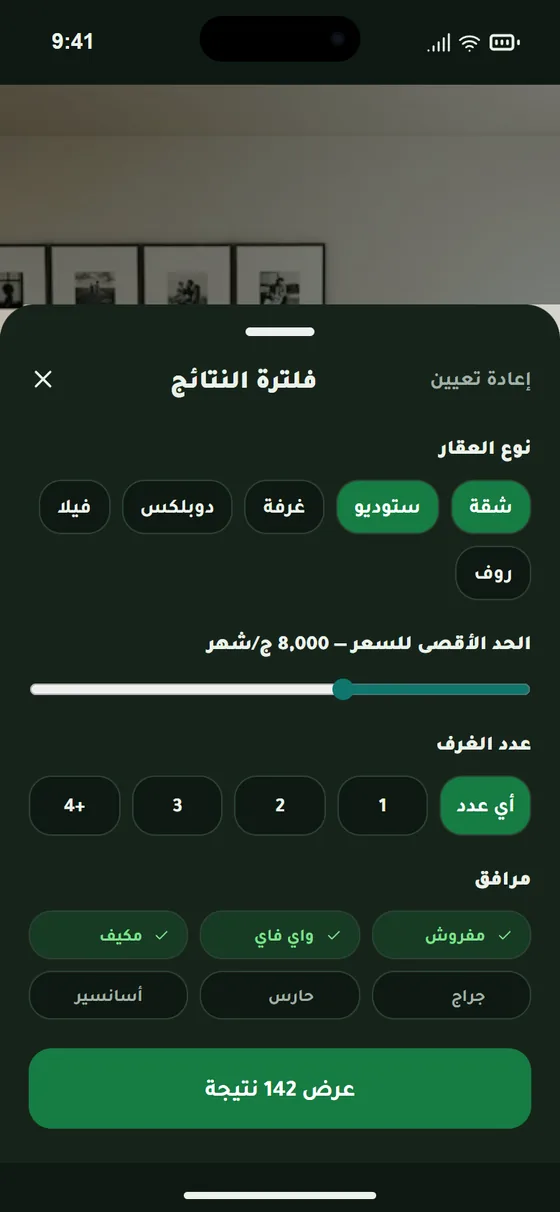
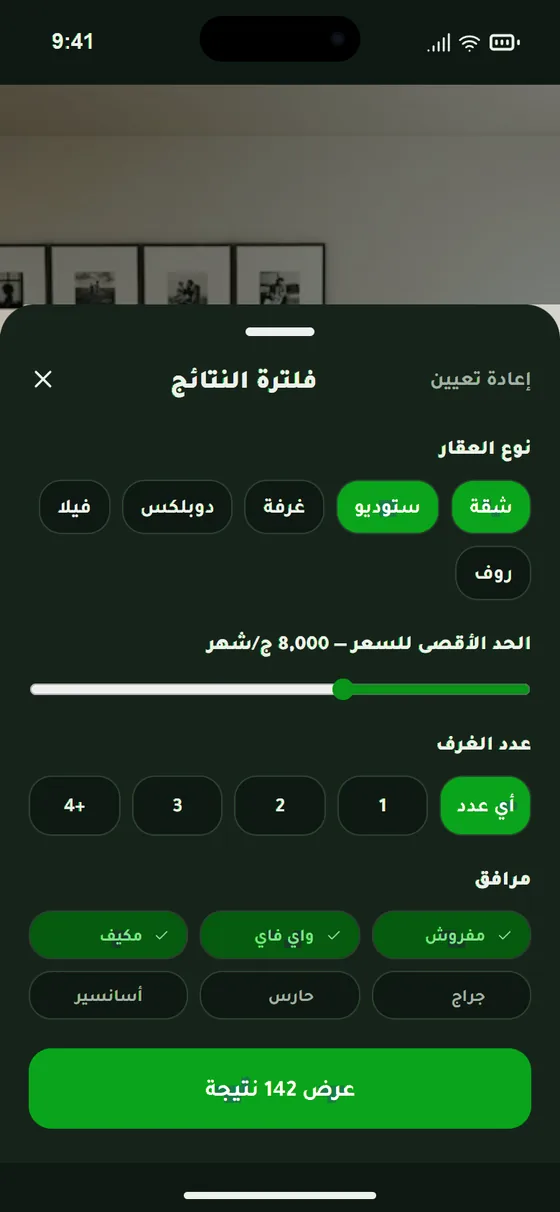
feat: enhance footer with social media links and update site details
- Added social media links (Instagram, TikTok) to the footer using the new SOCIAL_LINKS constant.
- Updated the README to reflect changes in the site.ts regarding social profiles.
- Introduced new SVG paths for the signature to separate the first letter from the rest of the word.
- Updated translations for social media labels in Arabic and English.
- Modified the SiteFooter component to render social media links dynamically.
- Updated various image assets for the landing page.

diff --git a/frontend/landing/src/assets/brand/signature.ts b/frontend/landing/src/assets/brand/signature.ts
@@ -5,3 +5,12 @@ export const SIGNATURE_VIEWBOX = "0 0 1455 811";
 
 export const SIGNATURE_PATH =
   "M690.9 796.5C706 791.9 718.7 787.7 719 787.3C720.3 785.9 701.8 730.5 694.6 713.7L692.9 709.9L698.6 707.4L704.2 704.9L708.4 708.3C753.1 744.6 812.9 754 862.9 732.6C897.3 717.8 935.2 682.8 961 641.8C964 637 966.8 633.1 967.2 633C967.6 633 967.9 653.8 967.9 679.2L968 725.5L1007.3 725.8L1046.7 726L1107.1 639.5C1140.2 592 1167.5 553.2 1167.6 553.3C1167.7 553.4 1168.1 555.9 1168.5 558.9C1168.9 561.9 1169.4 565.2 1169.6 566.4C1169.8 567.5 1170.2 570.2 1170.6 572.5C1170.9 574.7 1171.6 578.5 1172.2 581C1172.7 583.5 1173.4 586.5 1173.6 587.7C1176.4 602.2 1185.5 628.1 1194 645.5C1230.2 720 1296.9 752.3 1366.3 728.9C1397.7 718.3 1417.4 699.4 1435.1 662.5C1443.3 645.6 1446.3 634.7 1448.5 614.5C1451.2 590.3 1451.2 550.9 1448.5 531C1448.2 529.1 1447.8 525.9 1447.5 524C1447.2 522.1 1446.8 518.7 1446.5 516.6C1445.8 511.4 1445 506.8 1444.5 505C1444.3 504.2 1443.9 501.9 1443.6 500C1442.5 493.3 1441.9 490.4 1438 474.8C1430.5 444.7 1423.5 425.9 1381.8 322.2L1360.7 270L1327.4 270L1294 270L1295.4 273.3C1296.2 275 1298.9 281 1301.5 286.5C1331.1 348.9 1373.2 463 1378.5 495C1378.8 496.9 1379.5 500.1 1380 502C1380.5 503.9 1381.2 507.3 1381.5 509.5C1381.9 511.7 1382.3 514.2 1382.5 515C1382.9 516.3 1383.6 520.1 1384.5 526.5C1384.7 527.6 1385.1 531 1385.5 534C1385.9 537 1386.4 540.6 1386.6 542C1390.4 570.1 1389.1 606.1 1383.5 626C1376.4 651.1 1367 664.5 1350.6 672.5C1312.3 691.4 1272.2 666.3 1249.7 609.5C1246 600.2 1239.4 579.3 1238.5 573.8C1238.2 572.1 1237.8 570.4 1237.6 570.1C1237.4 569.8 1236.9 567.9 1236.6 566C1236.3 564.1 1235.8 561.4 1235.5 560C1235.2 558.6 1234.8 556.4 1234.5 555C1234.1 552.7 1233.8 550.9 1232.5 543C1231.8 538.9 1230.1 524.5 1229.4 517C1228.1 502.7 1227.9 498.1 1227.4 478.5L1226.9 457.5L1191.2 457.5L1155.6 457.5L1094.5 544.7C1061 592.7 1033.2 632 1032.8 632C1032.4 632 1032.1 578 1032.3 512L1032.5 392L997.2 392L962 392L962 409.8C961.9 430.4 961.5 438 959.5 456.9C958.6 465.5 956.2 480.7 954.5 489C954.2 490.4 953.7 492.9 953.5 494.5C945.3 541.1 911.9 606.9 878.9 641.4C843.2 678.8 808.5 687.9 770.1 669.9L761.6 665.9L767.2 660.2C792.7 633.9 809.5 601.2 813.7 569.8C814.6 562.9 814.7 534.7 813.7 529.2C807.7 492.7 789.7 463.8 758.7 440.8C750.1 434.4 729.9 422.1 723.4 419.3C720.3 418 719.9 417.6 721.5 417.3C757.2 410.7 792.4 403.2 807 399.1C810.6 398 819.6 395.5 827 393.5C999.7 346.1 1147.1 237.7 1226.1 100C1239.5 76.5 1261.6 29.2 1259.8 27.5C1258.3 26 1200.6 4 1199.9 4.7C1199.5 5.1 1196.4 11.9 1193.1 19.8C1146.6 128.8 1054.3 222.2 933.2 282.9C919.8 289.6 896 300.4 886.5 304C883.2 305.2 878 307.3 875 308.6C821.1 331.2 734 351.8 653 360.9C604.7 366.4 580.7 366.8 454.9 364.3L422.3 363.7L422.6 381.1C422.8 390.7 423.1 405.8 423.2 414.7L423.4 430.8L432.5 431.4C437.4 431.7 459.3 432.4 481 433C553.4 434.9 588.4 440.1 639 456.5C720.7 483 750.6 508.5 749.5 550.8C749.4 556.1 749 561.6 748.6 563C748.3 564.4 747.8 566.8 747.5 568.3C742.5 595.6 712.6 627.9 675.4 646C663.6 651.7 663.5 651.8 661.7 648.8C638.6 611.1 623.3 590.1 599.6 564.1C539.7 498.5 455.3 452.7 384.5 447.4C332.1 443.6 286.8 476.7 282.3 522C279.3 552.5 292 581.3 322 612.4C402.6 695.6 519.7 742 618.5 729.9C622.9 729.4 627.2 728.7 628 728.5C629 728.2 630.1 729.4 631.4 732.3C636.1 743.2 645.6 769.2 650.5 785C657.8 808.2 657.3 807.1 660.7 806C662.2 805.5 675.8 801.2 690.9 796.5ZM237.5 767C285.2 763.5 328.4 746.8 367.8 716.6C378.6 708.3 391.8 696.5 391 695.8C390.7 695.5 384 691 376 685.7C368 680.4 356.3 672 350 667.1C343.7 662.1 338.1 658 337.5 658C336.9 658 334.2 659.9 331.5 662.1C309.9 679.7 281.9 693.3 255.2 699.1C240 702.4 211.4 702.9 195.1 700.1C141.1 690.9 100.8 658.2 81.5 608C77.9 598.9 73.5 583 72.5 576.5C72.2 574.2 71.8 571.3 71.5 570C68.5 554.8 69 524.2 72.4 505.7C72.6 504.5 73.1 501.7 73.5 499.5C80.6 458.9 104 409.9 138.3 363.7C145.1 354.5 146.1 352.7 144.9 351.5C142.5 349.3 96 314 95.1 313.7C93.2 313.2 69.7 346.4 56.8 368C36 402.6 16.9 448.7 11.4 477.4C11.2 478.6 10.6 481.8 10 484.5C8.2 493 7.7 496.3 6.4 505C3.5 525.7 4 563 7.4 582.8C9.2 593 9.7 595.5 10.4 597.8C10.7 598.7 11.1 600.6 11.4 602C13.6 613.8 22.4 638 30.1 653C66.2 724.1 133.2 764.5 220 767.8C221.9 767.9 229.8 767.5 237.5 767ZM572.5 666.3C505.1 662.6 429.2 626.5 373.7 571.7C342.9 541.4 339.1 523.5 361.5 515.1C380.9 507.8 426.9 519.4 467.5 541.7C512.1 566.3 555 606.2 587 653.1C593.4 662.6 595 665.4 593.9 666.1C592.6 666.9 585.4 667 572.5 666.3ZM240.1 447C257.4 443.7 273.6 428.1 276.6 412C284.9 366.1 230.3 338.1 198.5 372.1C169.4 403.2 198.2 454.9 240.1 447ZM589.1 326C597.1 323.5 604.1 318.4 607.5 312.6C610 308.4 610.5 304.4 610.1 294.8C609.8 289.2 600 283.3 592.9 284.5C578.3 287 574.3 306.7 586.4 316.7L590.1 319.7L585.6 320.9C580.1 322.3 571 322.3 565.1 320.9C560.4 319.9 559.6 320.2 558.6 323.6C558 325.5 558.5 325.9 562.7 326.8C571.1 328.5 582.2 328.2 589.1 326ZM1211.6 324.6C1226 318.1 1233 303.8 1227.3 292.3C1222 281.4 1204.9 282.2 1199.5 293.6C1195.8 301.4 1198.6 313.2 1205.1 316.8C1209 319.1 1208.8 319.5 1203.5 321C1199.1 322.2 1187.4 321.9 1180.9 320.4C1178.6 319.9 1178.2 320.2 1177.6 322.5C1176.7 325.9 1176.7 325.9 1182.1 327C1190.9 328.8 1204.9 327.7 1211.6 324.6ZM204 325C220.3 316.7 212.4 292 193.8 293.2C171.6 294.7 172.5 326.9 194.8 327C198.1 327 201.5 326.3 204 325ZM189 320.7C185.4 318.9 182.2 313.6 182.4 309.8C183.3 296.8 201.6 293.7 206.6 305.7C211 316.1 199.4 326 189 320.7ZM590.7 312C584.1 306.2 583.4 298.9 589 293.5C597.8 285.1 608.1 295.3 602.8 307.1C599 315.7 596.2 316.9 590.7 312ZM1210.1 312.8C1201.5 307.2 1201.7 295.1 1210.6 291.4C1221.3 286.9 1227.5 300.7 1219.3 310.8C1215.6 315.3 1214.4 315.6 1210.1 312.8Z";
+
+// The same word split in two, so a layout can set the first letter (س, with
+// its damma and the madda that sweeps down to meet the ك) apart from the rest (كون). Same viewBox, so each part stays
+// where it sits in the whole word.
+export const SIGNATURE_SEEN_PATH =
+  "M828.5 742.5C852.8 738.6 875.2 728.7 898 712C917.2 697.9 945.6 666.2 961 641.8C964 637 966.8 633.1 967.2 633C967.6 633 967.9 653.8 967.9 679.2L968 725.5L1007.3 725.8L1046.7 726L1107.1 639.5C1140.2 592 1167.5 553.2 1167.6 553.3C1167.7 553.4 1168.1 555.9 1168.5 558.9C1168.9 561.9 1169.4 565.2 1169.6 566.4C1169.8 567.5 1170.2 570.2 1170.6 572.5C1170.9 574.7 1171.6 578.5 1172.2 581C1172.7 583.5 1173.4 586.5 1173.6 587.7C1176.4 602.2 1185.5 628.1 1194 645.5C1230.2 720 1296.9 752.3 1366.3 728.9C1397.7 718.3 1417.4 699.4 1435.1 662.5C1443.3 645.6 1446.3 634.7 1448.5 614.5C1451.2 590.3 1451.2 550.9 1448.5 531C1448.2 529.1 1447.8 525.9 1447.5 524C1447.2 522.1 1446.8 518.7 1446.5 516.6C1445.8 511.4 1445 506.8 1444.5 505C1444.3 504.2 1443.9 501.9 1443.6 500C1442.5 493.3 1441.9 490.4 1438 474.8C1430.5 444.7 1423.5 425.9 1381.8 322.3L1360.7 270L1327.4 270L1294 270L1295.4 273.2C1296.2 275 1298.9 281 1301.5 286.5C1331.1 348.9 1373.2 463 1378.5 495C1378.8 496.9 1379.5 500.1 1380 502C1380.5 503.9 1381.2 507.3 1381.5 509.5C1381.9 511.7 1382.3 514.2 1382.5 515C1382.9 516.3 1383.6 520.1 1384.5 526.5C1384.7 527.6 1385.1 531 1385.5 534C1385.9 537 1386.4 540.6 1386.6 542C1390.4 570.1 1389.1 606.1 1383.5 626C1376.4 651.1 1367 664.5 1350.6 672.5C1312.3 691.4 1272.2 666.3 1249.7 609.5C1246 600.2 1239.4 579.3 1238.5 573.8C1238.2 572.1 1237.8 570.4 1237.6 570.1C1237.4 569.8 1236.9 567.9 1236.6 566C1236.3 564.1 1235.8 561.4 1235.5 560C1235.2 558.6 1234.8 556.4 1234.5 555C1234.1 552.7 1233.8 550.9 1232.5 543C1231.8 538.9 1230.1 524.5 1229.4 517C1228.1 502.7 1227.9 498.1 1227.4 478.5L1226.9 457.5L1191.2 457.5L1155.6 457.5L1094.5 544.7C1061 592.7 1033.2 632 1032.8 632C1032.4 632 1032.1 578 1032.3 512L1032.5 392L997.2 392L962 392L962 409.8C961.9 432.3 960.9 448.1 958.5 465.4C957.3 473.3 955.6 483.9 954.5 489C954.2 490.4 953.7 492.9 953.5 494.5C945.3 541.1 911.9 606.9 878.9 641.4C843.9 678.1 809.4 687.6 772.2 670.9L765.3 667.9L737.2 688.1C721.7 699.2 709.3 708.7 709.6 709.2C709.9 709.7 714.2 712.8 719.1 716.1C752.6 738.6 792.8 748.3 828.5 742.5ZM1211.6 324.6C1226 318.1 1233 303.8 1227.3 292.3C1222 281.4 1204.9 282.2 1199.5 293.6C1195.8 301.4 1198.6 313.2 1205.1 316.8C1209 319.1 1208.8 319.5 1203.5 321C1199.1 322.2 1187.4 321.9 1180.9 320.4C1178.6 319.9 1178.2 320.2 1177.6 322.5C1176.7 325.9 1176.7 325.9 1182.1 327C1190.9 328.8 1204.9 327.7 1211.6 324.6ZM1210.1 312.8C1201.5 307.2 1201.7 295.1 1210.6 291.4C1221.3 286.9 1227.5 300.7 1219.3 310.8C1215.6 315.3 1214.4 315.6 1210.1 312.8Z";
+
+export const SIGNATURE_REST_PATH =
+  "M690.9 796.5C706 791.9 718.7 787.7 719 787.3C720.3 785.9 701.8 730.5 694.6 713.7L692.9 709.9L698.6 707.4C703.9 705.1 704.4 705 706.1 706.6C708.6 708.8 707.7 709.4 736.1 688.9C766.7 667 765.6 667.9 763.4 666.7C762 665.9 762.6 664.9 767.3 660.1C792.7 633.9 809.5 601.2 813.7 569.8C814.6 562.9 814.7 534.7 813.7 529.2C807.7 492.7 789.7 463.8 758.7 440.8C750.1 434.4 729.9 422.1 723.4 419.3C720.3 418 719.9 417.6 721.5 417.3C757.2 410.7 792.4 403.2 807 399.1C810.6 398 819.6 395.5 827 393.5C999.7 346.1 1147.1 237.7 1226.1 100C1239.5 76.5 1261.6 29.2 1259.8 27.5C1258.3 26 1200.6 4 1199.9 4.7C1199.5 5.1 1196.4 11.9 1193.1 19.8C1146.6 128.8 1054.3 222.2 933.2 282.9C919.8 289.6 896 300.4 886.5 304C883.2 305.2 878 307.3 875 308.6C821.1 331.2 734 351.8 653 360.9C604.7 366.4 580.7 366.8 454.9 364.3L422.3 363.7L422.6 381.1C422.8 390.7 423.1 405.8 423.2 414.7L423.4 430.8L432.5 431.4C437.4 431.7 459.3 432.4 481 433C553.4 434.9 588.4 440.1 639 456.5C720.7 483 750.6 508.5 749.5 550.8C749.4 556.1 749 561.6 748.6 563C748.3 564.4 747.8 566.8 747.5 568.3C742.5 595.6 712.6 627.9 675.4 646C663.6 651.7 663.5 651.8 661.7 648.8C638.6 611.1 623.3 590.1 599.6 564.1C539.7 498.5 455.3 452.7 384.5 447.4C332.1 443.6 286.8 476.7 282.3 522C279.3 552.5 292 581.3 322 612.4C402.6 695.6 519.7 742 618.5 729.9C622.9 729.4 627.2 728.7 628 728.5C629 728.2 630.1 729.4 631.4 732.3C636.1 743.2 645.6 769.2 650.5 785C657.8 808.2 657.3 807.1 660.7 806C662.2 805.5 675.8 801.2 690.9 796.5ZM237.5 767C285.2 763.5 328.4 746.8 367.8 716.6C378.6 708.3 391.8 696.5 391 695.8C390.7 695.5 384 691 376 685.7C368 680.4 356.3 672 350 667.1C343.7 662.1 338.1 658 337.5 658C336.9 658 334.2 659.9 331.5 662.1C309.9 679.7 281.9 693.3 255.2 699.1C240 702.4 211.4 702.9 195.1 700.1C141.1 690.9 100.8 658.2 81.5 608C77.9 598.9 73.5 583 72.5 576.5C72.2 574.2 71.8 571.3 71.5 570C68.5 554.8 69 524.2 72.4 505.7C72.6 504.5 73.1 501.7 73.5 499.5C80.6 458.9 104 409.9 138.3 363.7C145.1 354.5 146.1 352.7 144.9 351.5C142.5 349.3 96 314 95.1 313.7C93.2 313.2 69.7 346.4 56.8 368C36 402.6 16.9 448.7 11.4 477.4C11.2 478.6 10.6 481.8 10 484.5C8.2 493 7.7 496.3 6.4 505C3.5 525.7 4 563 7.4 582.8C9.2 593 9.7 595.5 10.4 597.8C10.7 598.7 11.1 600.6 11.4 602C13.6 613.8 22.4 638 30.1 653C66.2 724.1 133.2 764.5 220 767.8C221.9 767.9 229.8 767.5 237.5 767ZM572.5 666.3C505.1 662.6 429.2 626.5 373.7 571.7C342.9 541.4 339.1 523.5 361.5 515.1C380.9 507.8 426.9 519.4 467.5 541.7C512.1 566.3 555 606.2 587 653.1C593.4 662.6 595 665.4 593.9 666.1C592.6 666.9 585.4 667 572.5 666.3ZM240.1 447C257.4 443.7 273.6 428.1 276.6 412C284.9 366.1 230.3 338.1 198.5 372.1C169.4 403.2 198.2 454.9 240.1 447ZM589.1 326C597.1 323.5 604.1 318.4 607.5 312.6C610 308.4 610.5 304.4 610.1 294.8C609.8 289.2 600 283.3 592.9 284.5C578.3 287 574.3 306.7 586.4 316.7L590.1 319.7L585.6 320.9C580.1 322.3 571 322.3 565.1 320.9C560.4 319.9 559.6 320.2 558.6 323.6C558 325.5 558.5 325.9 562.7 326.8C571.1 328.5 582.2 328.2 589.1 326ZM204 325C220.3 316.7 212.4 292 193.8 293.2C171.6 294.7 172.5 326.9 194.8 327C198.1 327 201.5 326.3 204 325ZM189 320.7C185.4 318.9 182.2 313.6 182.4 309.8C183.3 296.8 201.6 293.7 206.6 305.7C211 316.1 199.4 326 189 320.7ZM590.7 312C584.1 306.2 583.4 298.9 589 293.5C597.8 285.1 608.1 295.3 602.8 307.1C599 315.7 596.2 316.9 590.7 312Z";

diff --git a/frontend/landing/src/components/ui/Decor.tsx b/frontend/landing/src/components/ui/Decor.tsx
@@ -1,11 +1,22 @@
 import clsx from "clsx";
-import { SIGNATURE_PATH, SIGNATURE_VIEWBOX } from "@/assets/brand/signature";
+import { SIGNATURE_PATH, SIGNATURE_REST_PATH, SIGNATURE_SEEN_PATH, SIGNATURE_VIEWBOX } from "@/assets/brand/signature";
+
+const PATHS = { word: SIGNATURE_PATH, seen: SIGNATURE_SEEN_PATH, rest: SIGNATURE_REST_PATH };
 
 // The logo's "سكون" calligraphy as a thin outlined engraving, used as a large
 // background signature. Size and colour come from `className` (text-*); set
 // `--sig-fill` (0-1) to tint the inside of the strokes as well. `draw` lets CSS
-// draw the outline in (see .signature-draw in globals.css).
-export function SignatureMark({ className, draw = false }: { className?: string; draw?: boolean }) {
+// draw the outline in (see .signature-draw in globals.css). `part` draws only
+// the first letter (seen) or the rest of the word, in its place in the word.
+export function SignatureMark({
+  className,
+  draw = false,
+  part = "word",
+}: {
+  className?: string;
+  draw?: boolean;
+  part?: keyof typeof PATHS;
+}) {
   return (
     <svg
       aria-hidden
@@ -13,7 +24,7 @@ export function SignatureMark({ className, draw = false }: { className?: string;
       className={clsx("pointer-events-none absolute select-none", className)}
     >
       <path
-        d={SIGNATURE_PATH}
+        d={PATHS[part]}
         pathLength={draw ? 1 : undefined}
         className={clsx(draw && "signature-draw")}
         fill="currentColor"
@@ -31,8 +42,9 @@ export function SignatureMark({ className, draw = false }: { className?: string;
 const edgeSignature =
   "w-[64rem] text-brand-deep/25 [--sig-fill:0.18] max-lg:hidden dark:text-brand/30 dark:[--sig-fill:0]";
 
-// The signature engraved into both edges of a section: the word's end on the
-// right, its start on the left, each fading out before it reaches the content.
+// The signature split across both edges of a section: its first letter (س)
+// alone on the right, the rest of the word (كون) on the left, each fading out
+// before it reaches the content.
 // Only from lg up: below that sections stack and the text has no free side.
 // `className` sets the vertical position (e.g. top-4); the parent must be
 // positioned and clip overflow. With `draw`, a [data-animate] parent makes it
@@ -42,11 +54,13 @@ export function EdgeSignature({ className, draw = false }: { className?: string;
     <>
       <SignatureMark
         draw={draw}
-        className={clsx(edgeSignature, "-right-72 [mask-image:linear-gradient(to_left,black_40%,transparent_72%)]", className)}
+        part="seen"
+        className={clsx(edgeSignature, "right-0 [mask-image:linear-gradient(to_left,black_26%,rgb(0_0_0/0.35)_46%)]", className)}
       />
       <SignatureMark
         draw={draw}
-        className={clsx(edgeSignature, "-left-10 [mask-image:linear-gradient(to_right,black_30%,transparent_55%)]", className)}
+        part="rest"
+        className={clsx(edgeSignature, "-left-10 [mask-image:linear-gradient(to_right,black_45%,transparent_68%)]", className)}
       />
     </>
   );

diff --git a/frontend/landing/src/components/layout/SiteFooter.tsx b/frontend/landing/src/components/layout/SiteFooter.tsx
@@ -1,5 +1,6 @@
 import type { Dictionary } from "@/i18n/dictionaries";
 import { SECTION_IDS } from "@/lib/sections";
+import { SOCIAL_LINKS } from "@/lib/site";
 import { Container } from "@/components/ui/Container";
 import { Logo } from "@/components/ui/Logo";
 
@@ -41,6 +42,43 @@ export function SiteFooter({ dict }: { dict: Dictionary }) {
             </ul>
           </nav>
         </div>
+
+        <nav aria-label={dict.footer.socialLabel}>
+          <ul className="flex flex-wrap items-center justify-center gap-x-6 gap-y-2 text-sm text-fg/70 sm:justify-start">
+            {SOCIAL_LINKS.map((link) => (
+              <li key={link.href}>
+                <a
+                  href={link.href}
+                  target="_blank"
+                  rel="noopener noreferrer"
+                  className="inline-flex min-h-11 items-center gap-2 transition-colors hover:text-fg focus-visible:outline-2 focus-visible:outline-offset-4 focus-visible:outline-fg"
+                >
+                  <svg
+                    viewBox="0 0 24 24"
+                    fill="none"
+                    stroke="currentColor"
+                    strokeWidth="1.75"
+                    strokeLinecap="round"
+                    strokeLinejoin="round"
+                    className="size-5 shrink-0"
+                    aria-hidden="true"
+                  >
+                    {link.label === "Instagram" ? (
+                      <>
+                        <rect x="3" y="3" width="18" height="18" rx="5" />
+                        <circle cx="12" cy="12" r="4" />
+                        <circle cx="17.5" cy="6.5" r="0.5" />
+                      </>
+                    ) : (
+                      <path d="M14 3h3a5 5 0 0 0 4 4v3a8 8 0 0 1-4-1v7a6 6 0 1 1-6-6v3a3 3 0 1 0 3 3V3Z" />
+                    )}
+                  </svg>
+                  {link.label}
+                </a>
+              </li>
+            ))}
+          </ul>
+        </nav>
 
         <div className="flex flex-col items-center gap-4 border-t border-line pt-6 text-center sm:flex-row sm:justify-between sm:text-start">
           <nav aria-label={dict.footer.linksLabel}>

diff --git a/frontend/landing/src/lib/site.ts b/frontend/landing/src/lib/site.ts
@@ -14,9 +14,13 @@ export const THEME_COLOR = "#f6f2e9";
 
 export const absoluteUrl = (path = "/") => new URL(path, SITE_URL).toString();
 
-// TODO: add the official social profile URLs (Instagram, Facebook, X, LinkedIn, ...).
-// They're published as `sameAs` in the Organization schema once this list is non-empty.
-export const SOCIAL_PROFILES: string[] = [];
+// Shared by the footer and Organization structured data.
+export const SOCIAL_LINKS = [
+  { label: "Instagram", href: "https://www.instagram.com/suk_oon272/" },
+  { label: "TikTok", href: "https://www.tiktok.com/@sukoon5026" },
+];
+
+export const SOCIAL_PROFILES: string[] = SOCIAL_LINKS.map((link) => link.href);
 
 // TODO: fill in the registered business details. The LocalBusiness schema stays off
 // until name, telephone and the street address + city are all set, so placeholder

diff --git a/frontend/landing/src/i18n/dictionaries.ts b/frontend/landing/src/i18n/dictionaries.ts
@@ -152,6 +152,7 @@ const ar = {
     terms: "الشروط",
     contact: "تواصل معنا",
     linksLabel: "روابط",
+    socialLabel: "تابعنا على مواقع التواصل الاجتماعي",
     copyright: "© 2026 سكون. جميع الحقوق محفوظة.",
   },
   notFound: {
@@ -322,6 +323,7 @@ const en: Dictionary = {
     terms: "Terms",
     contact: "Contact us",
     linksLabel: "Links",
+    socialLabel: "Follow us on social media",
     copyright: "© 2026 Sukoon. All rights reserved.",
   },
   notFound: {

diff --git a/WORKLOG.md b/WORKLOG.md
@@ -626,3 +626,43 @@
 - **Why:** The user wanted to see the section without the box.
 - **Details:** Dropped `overflow-hidden rounded-[2rem] border border-line bg-sand` from the slide's `<figure>`; the soft radial glow and the caption stay. Nothing clips the card stamp any more, so it was narrowed from `w-[116%]` (with `-inset-x-[8%]`) to the figure's own width. That keeps it out of the text column, and the whole word now shows behind the phone. Checked light and dark screenshots at 1440px. Typecheck and ESLint pass.
 - **Files:** `frontend/landing/src/components/sections/ProductFeatures.tsx`
+
+### 10 UI proposals for the mobile app home screen
+- **What:** Made 10 different tenant home screen designs as phone mockups (390×844, Arabic RTL, Tajawal) on a design canvas: https://claude.ai/artifact/U8UUhGprTjP9wFP5AqNvtG
+- **Why:** The user doesn't like the current app UI and wants new directions that use the landing page colors.
+- **Details:** All 10 use the `LandingColors` palette from `mobile/apps/landing_page/lib/landing/theme/landing_theme.dart` (teal `#0C6254`, tealDark `#084B40`, tealLight `#EDFDF3`, navy `#152E29`, gold `#D6A84F`, background `#FAFBF8`, border `#E3EBE5`). Directions: Calm Teal, Gold Night (dark), Mint Minimal, Map First, Bento Grid, Editorial (Amiri serif), Floating Pill nav, Swipe Discover, Tenant Hub (journey dashboard), Curved Hero. Photos are tinted placeholder blocks and prices are `[السعر]` placeholders. No app code was changed.
+- **Files:** none in the repo (design canvas only)
+
+### Hero engraving split: س on the right, كون on the left
+- **What:** The hero engraving now shows only the first letter, the س with its damma, on the right edge, and the rest of the word (كون) on the left.
+- **Why:** The user's idea, to set the first letter apart from the rest of the word.
+- **Details:**
+  - The letters are joined in the drawing (the ك's tail runs into the س), so I cut the traced bitmap rather than the vector. The cut is x ≥ 966, below the ك's swash (y ≥ 370), extended above that line past the swash's tip (x ≥ 1270) and for the damma box. Each part is traced separately into `SIGNATURE_SEEN_PATH` / `SIGNATURE_REST_PATH` in `signature.ts`. They share the full word's viewBox, so each part keeps its place in the word.
+  - `SignatureMark` takes a new `part` prop (`word` | `seen` | `rest`). `EdgeSignature` uses `seen` at `right-0`, fading out by about 32% of its width, and `rest` at `-left-10`. The full-word path is unchanged, so `WideSignature` and the card stamp have no seam.
+  - Earlier messages wrongly called the right-hand tall strokes ل/ك; they are the س. I corrected this with the user.
+  - The user restored the hero arch themselves after the previous change, and it stays.
+- **Verification:** Checked screenshots at 1440px (light and dark) and 1920px (light). Typecheck and ESLint pass.
+- **Files:** `frontend/landing/src/assets/brand/signature.ts`, `frontend/landing/src/components/ui/Decor.tsx`
+
+### Hero س now includes its madda
+- **What:** The س on the right of the hero now carries its madda: the stroke that rises from the ك's foot up the س's first bar.
+- **Why:** The user asked to add the س's madda to the right-hand part.
+- **Details:**
+  - The madda touches the ك only at its foot. A rectangle cut sliced it in half, so instead I cut a short line across that joint, from (697,712) to (772,658) in bitmap coordinates. Then I flood-filled from a point inside the tail, which gave the region x 709–965, y 392–743, and moved it into the س part.
+  - Retraced `SIGNATURE_SEEN_PATH` / `SIGNATURE_REST_PATH`; the full-word path is unchanged.
+  - The س is wider now, so its mask in `EdgeSignature` moved from `black 18% → 25% at 32%` to `black 26% → 35% at 46%`. That way the madda stays visible instead of fading out.
+- **Verification:** Checked screenshots at 1440px and 1920px (light). On 1440px the madda runs faintly behind the end of the hero paragraph. Typecheck and ESLint pass.
+- **Files:** `frontend/landing/src/assets/brand/signature.ts`, `frontend/landing/src/components/ui/Decor.tsx`
+
+### Recoloured the carousel app screenshots to the site's green
+- **What:** The 16 app screenshots in the "Inside Sukoon" carousel now use the landing page's green instead of the app's teal / blue-green.
+- **Why:** The user wanted the greens in the mocked app to match the site.
+- **Details:**
+  - Started from the original PNGs, taken from git before `383f9fb` (where they were removed), so the WebP is only compressed once.
+  - The light screenshots used teal `#087068` (hue 175°) with a light teal chip background `#e0f0f0`; the dark ones used `#107840` (hue 148°).
+  - The recolour sets the hue to the site's 127° (`#04a417` / `#0a5c18` / chip `#e1f0e2`) for UI pixels between 135° and 198° and keeps their lightness, so anti-aliased text and shading survive. In the dark theme, saturated greens are also lifted toward `#04a417`.
+  - Blues (the info banner, above 200°) are left alone. Listing photos are protected by a busy-block photo mask, so plants and decor keep their colours.
+  - Output is the same 560px WebP at quality 82 (496 KB for the folder).
+- **Verification:** Checked a before/after contact sheet across light and dark screens, and a screenshot of the section. No code changes.
+- **Note:** The real Flutter app still uses the teal theme. If the app's own palette should change, that's a separate change in `mobile/`.
+- **Files:** `frontend/landing/public/images/app/*.webp`

diff --git a/frontend/landing/README.md b/frontend/landing/README.md
@@ -57,7 +57,7 @@ src/
 - `components/ui/Logo.tsx` is a text placeholder. Replace it with the official SVG wordmark.
 - The store buttons are non-interactive ("coming soon"). Turn them into links once the store listings are live.
 - The footer links (Privacy / Terms / Contact) point to `#`. Each one has a `TODO` in `SiteFooter.tsx`.
-- `lib/site.ts`: the `BUSINESS` details and `SOCIAL_PROFILES` are empty `TODO`s. The LocalBusiness schema switches on by itself once name, phone, street and city are filled in.
+- `lib/site.ts`: `SOCIAL_LINKS` supplies the footer's Instagram and TikTok links and the Organization schema's `sameAs` profiles. The `BUSINESS` details remain empty `TODO`s; the LocalBusiness schema switches on by itself once name, phone, street and city are filled in.
 
 Run `grep -rn "TODO" src` to list them all.
 
